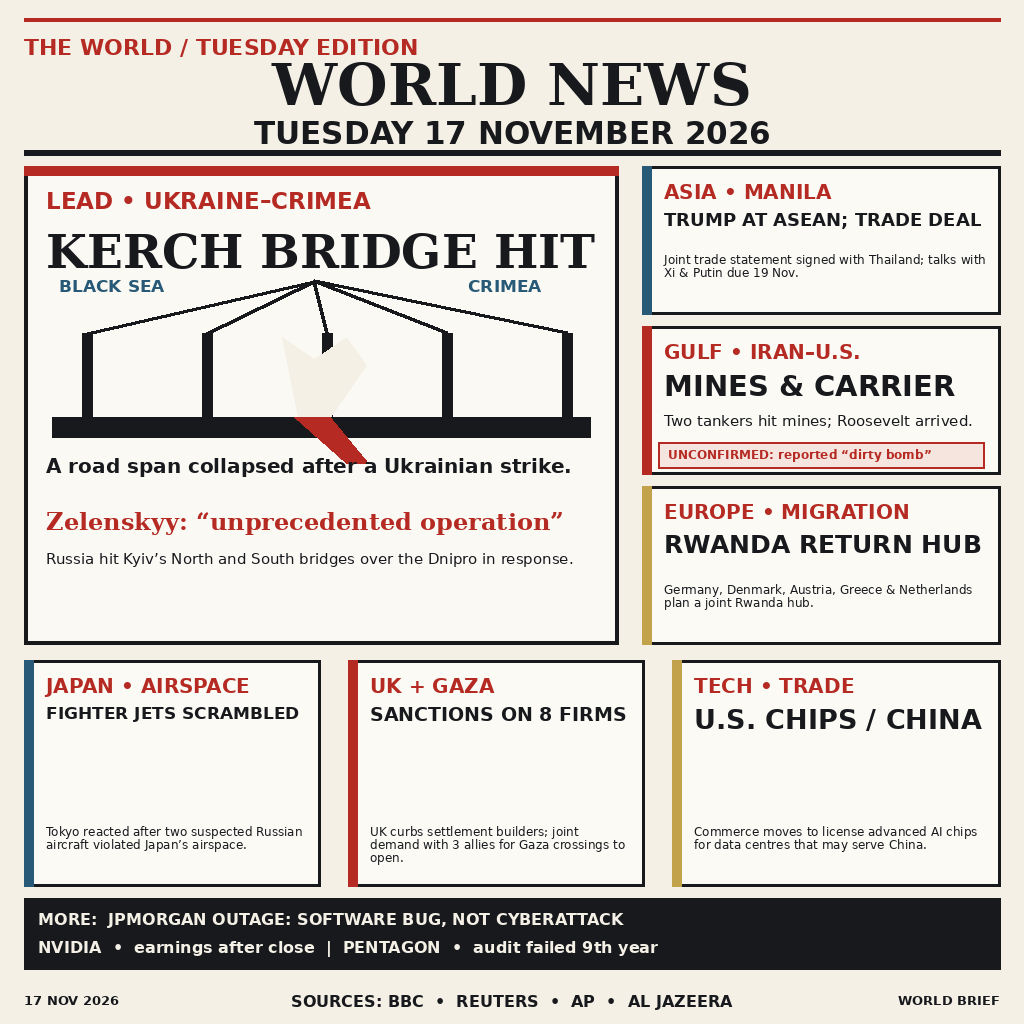
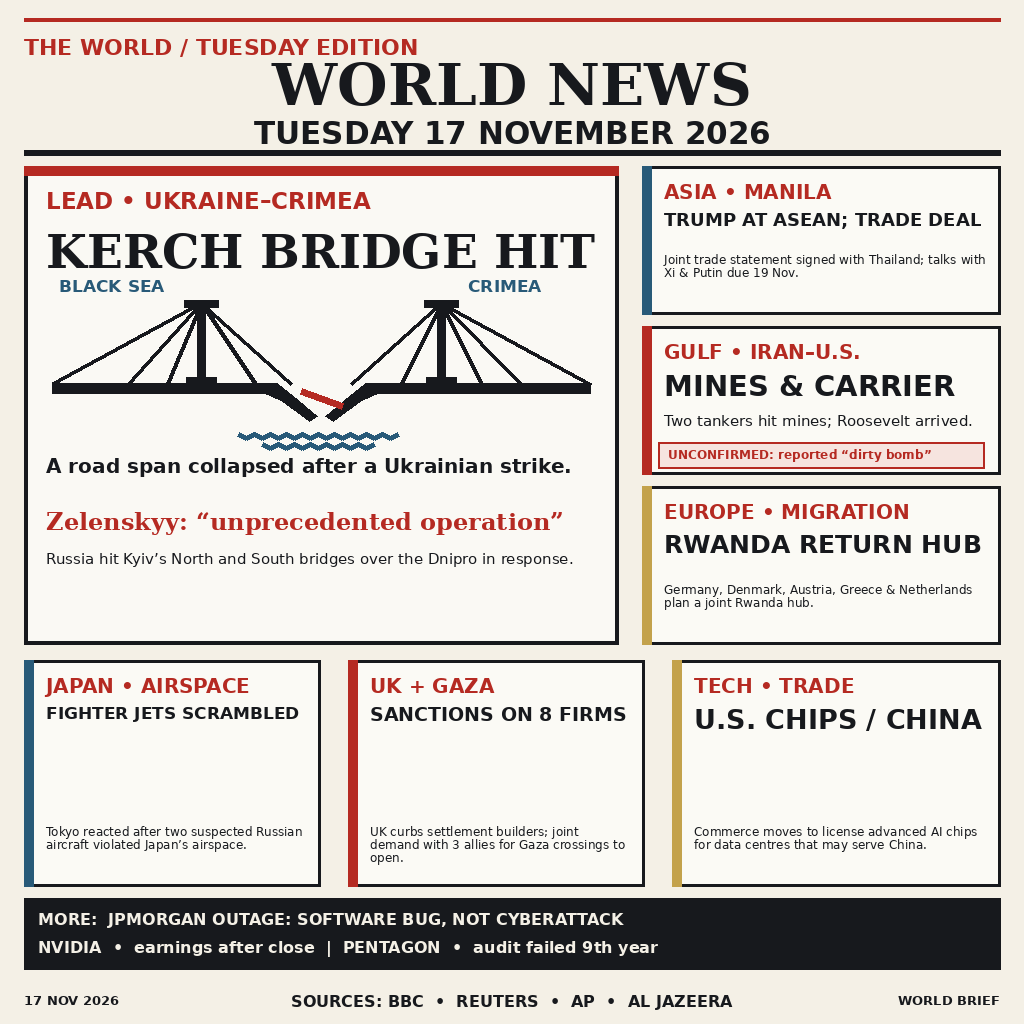
Redraw lead bridge illustration

Changed region(s): [[0.0312, 0.25, 0.5938, 0.4688]]

diff --git a/render.py b/render.py
@@ -91,19 +91,57 @@ def main():
     draw.text((lx + 22, ly + 57), "KERCH BRIDGE HIT", font=lead_f, fill=INK)
 
     # Bridge illustration
-    cy = ly + 185
-    draw.rectangle((lx + 28, cy + 66, lx + lw - 28, cy + 78), fill=INK)
-    draw.rectangle((lx + 28, cy + 78, lx + lw - 28, cy + 86), fill=INK)
-    for x in (lx + 58, lx + 178, lx + 298, lx + 418, lx + 538):
-        draw.rectangle((x, cy - 18, x + 10, cy + 66), fill=INK)
-        draw.line((x + 5, cy - 18, lx + 290, cy - 70), fill=INK, width=4)
-    draw.polygon([(lx + 258, cy - 14), (lx + 290, cy + 8), (lx + 322, cy - 14),
-                  (lx + 342, cy + 14), (lx + 306, cy + 66),
-                  (lx + 274, cy + 66)], fill=PAPER)
-    draw.polygon([(lx + 270, cy + 66), (lx + 306, cy + 66),
-                  (lx + 344, cy + 112), (lx + 322, cy + 112)], fill=RED)
-    draw.text((lx + 35, cy - 75), "BLACK SEA", font=font(BOLD, 17), fill=BLUE)
-    draw.text((lx + lw - 150, cy - 75), "CRIMEA", font=font(BOLD, 17), fill=BLUE)
+    deck_y = ly + 222
+    tower_top = ly + 137
+    left_tower = lx + 177
+    right_tower = lx + 417
+    road_left = lx + 28
+    road_right = lx + lw - 28
+    gap_left = lx + 267
+    gap_right = lx + 327
+
+    # Water beneath the broken span.
+    for y, start, end in (
+        (ly + 268, lx + 214, lx + 380),
+        (ly + 278, lx + 238, lx + 356),
+    ):
+        points = []
+        for x in range(start, end + 1, 8):
+            points.append((x, y + (4 if ((x - start) // 8) % 2 else 0)))
+        draw.line(points, fill=BLUE, width=5, joint="curve")
+
+    # Two tall pylons with fan cables on either side.
+    for tower_x in (left_tower, right_tower):
+        draw.line((tower_x, tower_top, tower_x, deck_y), fill=INK, width=9)
+        draw.line((tower_x - 17, tower_top, tower_x + 17, tower_top), fill=INK, width=8)
+        draw.line((tower_x - 15, deck_y - 8, tower_x + 15, deck_y - 8), fill=INK, width=7)
+    for x in (road_left, lx + 104, lx + 143, left_tower, lx + 231, gap_left):
+        draw.line((left_tower, tower_top, x, deck_y - 4), fill=INK, width=4)
+    for x in (gap_right, lx + 377, right_tower, lx + 457, lx + 497, road_right):
+        draw.line((right_tower, tower_top, x, deck_y - 4), fill=INK, width=4)
+
+    # Roadway, split at the failed span; both broken ends pitch into the water.
+    draw.polygon(
+        [(road_left, deck_y - 5), (gap_left - 14, deck_y - 5),
+         (gap_left + 1, deck_y + 7), (gap_left + 26, deck_y + 28),
+         (gap_left + 18, deck_y + 33), (gap_left - 9, deck_y + 13),
+         (gap_left - 27, deck_y + 5), (road_left, deck_y + 5)],
+        fill=INK,
+    )
+    draw.polygon(
+        [(gap_right + 14, deck_y - 5), (road_right, deck_y - 5),
+         (road_right, deck_y + 5), (gap_right + 27, deck_y + 5),
+         (gap_right + 9, deck_y + 13), (gap_right - 18, deck_y + 33),
+         (gap_right - 26, deck_y + 28), (gap_right - 1, deck_y + 7)],
+        fill=INK,
+    )
+    draw.line(
+        (gap_left + 10, deck_y + 3, gap_right - 9, deck_y + 18),
+        fill=RED,
+        width=7,
+    )
+    draw.text((lx + 35, ly + 110), "BLACK SEA", font=font(BOLD, 17), fill=BLUE)
+    draw.text((lx + lw - 150, ly + 110), "CRIMEA", font=font(BOLD, 17), fill=BLUE)
 
     # Lead copy
     text_block(draw, (lx + 22, ly + 288),
